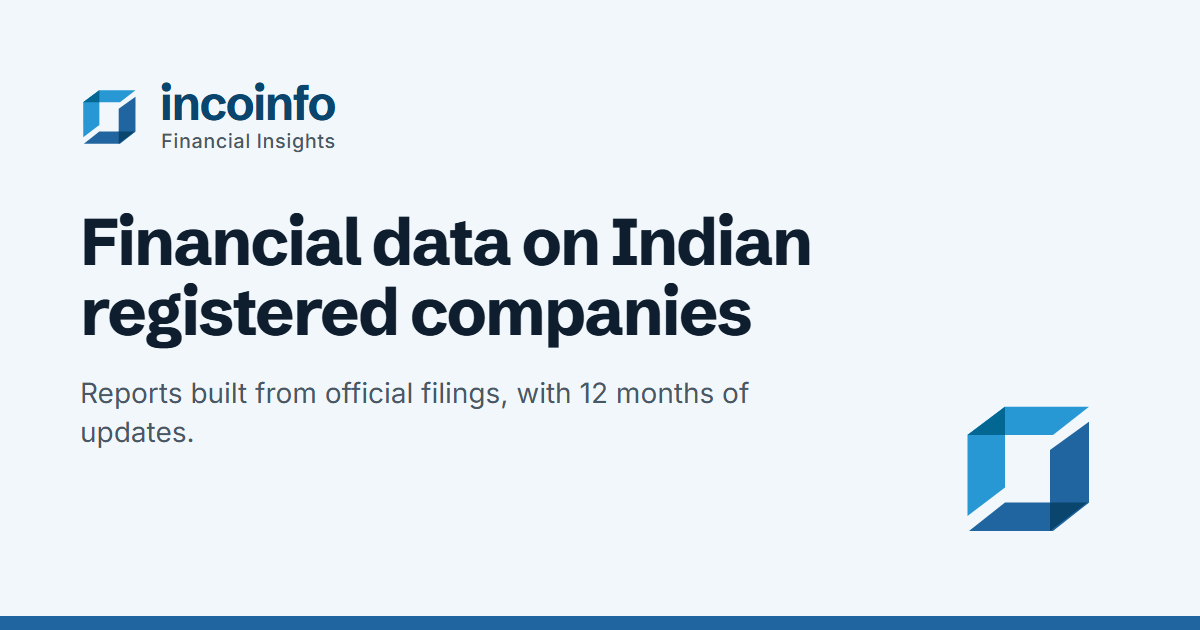
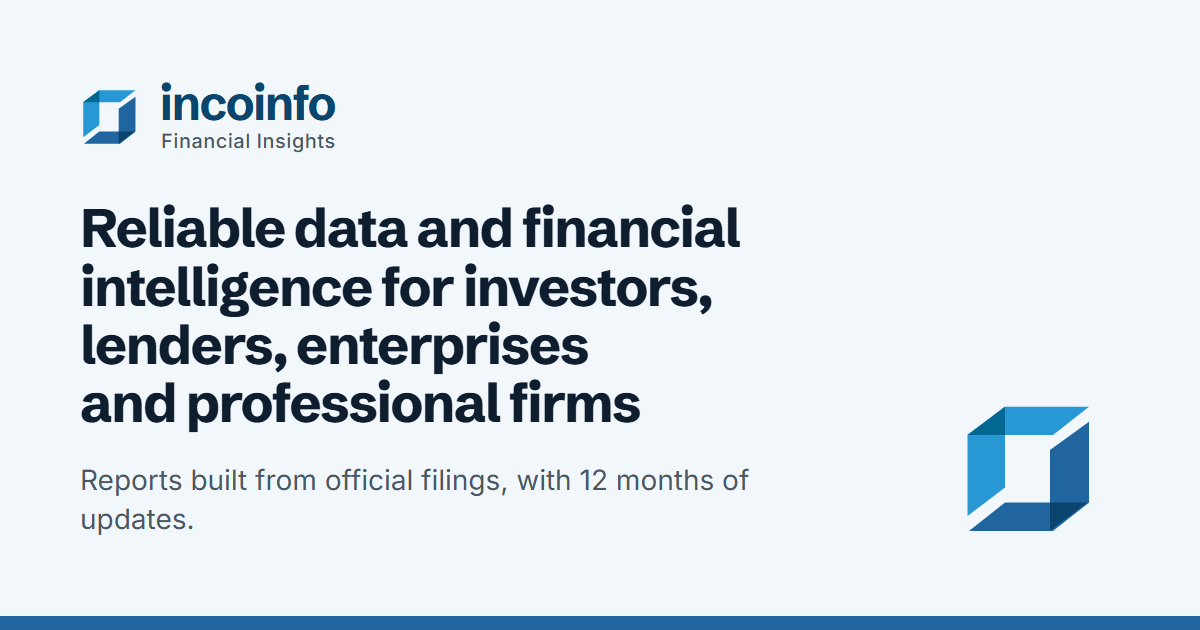
Match homepage title, descriptions and share image to the new headline

Changed region(s): [[0.0617, 0.3317, 0.6783, 0.7238], [0.0617, 0.7238, 0.6167, 0.7841], [0.0617, 0.8143, 0.1542, 0.8444]]

diff --git a/docs/index.html b/docs/index.html
@@ -3,8 +3,8 @@
   <head>
     <meta charset="UTF-8" />
 <meta name="viewport" content="width=device-width, initial-scale=1" />
-<title>IncoInfo — Financial data and company reports on Indian registered companies</title>
-<meta name="description" content="Search Indian companies by name, CIN or director. Buy reports built from MCA/RoC filings: multi-year financials, directors, shareholding, charges and compliance, with 12 months of updates." />
+<title>IncoInfo — Financial intelligence for investors, lenders, enterprises and professional firms</title>
+<meta name="description" content="Reliable data and financial intelligence for investors, lenders, enterprises and professional firms. Reports built from official MCA/RoC filings: financials, directors, shareholding, charges and compliance, with 12 months of updates." />
 <link rel="canonical" href="https://www.incoinfo.com/" />
 <meta name="theme-color" content="#0A456D" />
 <link rel="icon" href="./favicon.svg" type="image/svg+xml" />
@@ -12,14 +12,14 @@
 <link rel="preload" href="./fonts/schibsted-latin.woff2" as="font" type="font/woff2" crossorigin />
 <meta property="og:type" content="website" />
 <meta property="og:site_name" content="IncoInfo" />
-<meta property="og:title" content="IncoInfo — Financial data and company reports on Indian registered companies" />
-<meta property="og:description" content="Search Indian companies by name, CIN or director. Buy reports built from MCA/RoC filings: multi-year financials, directors, shareholding, charges and compliance, with 12 months of updates." />
+<meta property="og:title" content="IncoInfo — Financial intelligence for investors, lenders, enterprises and professional firms" />
+<meta property="og:description" content="Reliable data and financial intelligence for investors, lenders, enterprises and professional firms. Reports built from official MCA/RoC filings: financials, directors, shareholding, charges and compliance, with 12 months of updates." />
 <meta property="og:url" content="https://www.incoinfo.com/" />
 <meta property="og:image" content="https://www.incoinfo.com/og-image.png" />
 <meta property="og:locale" content="en_IN" />
 <meta name="twitter:card" content="summary_large_image" />
-<meta name="twitter:title" content="IncoInfo — Financial data and company reports on Indian registered companies" />
-<meta name="twitter:description" content="Search Indian companies by name, CIN or director. Buy reports built from MCA/RoC filings: multi-year financials, directors, shareholding, charges and compliance, with 12 months of updates." />
+<meta name="twitter:title" content="IncoInfo — Financial intelligence for investors, lenders, enterprises and professional firms" />
+<meta name="twitter:description" content="Reliable data and financial intelligence for investors, lenders, enterprises and professional firms. Reports built from official MCA/RoC filings: financials, directors, shareholding, charges and compliance, with 12 months of updates." />
 <meta name="twitter:image" content="https://www.incoinfo.com/og-image.png" />
 <script>
   (function () {
@@ -40,7 +40,7 @@
         "name": "IncoInfo",
         "url": "https://www.incoinfo.com/",
         "logo": "https://www.incoinfo.com/logo.png",
-        "description": "Company reports and financial data on Indian registered companies, compiled from official filings.",
+        "description": "Reliable data and financial intelligence for investors, lenders, enterprises and professional firms, compiled from official company filings.",
         "email": "support@incoinfo.com",
         "address": { "@type": "PostalAddress", "addressLocality": "Mumbai", "addressRegion": "Maharashtra", "addressCountry": "IN" },
         "contactPoint": { "@type": "ContactPoint", "contactType": "customer support", "email": "support@incoinfo.com", "areaServed": "IN", "availableLanguage": ["en"] }

diff --git a/index.html b/index.html
@@ -1,7 +1,7 @@
 <!doctype html>
 <html lang="en-IN">
   <head>
-    <!-- @include head title="IncoInfo — Financial data and company reports on Indian registered companies" description="Search Indian companies by name, CIN or director. Buy reports built from MCA/RoC filings: multi-year financials, directors, shareholding, charges and compliance, with 12 months of updates." path="/" -->
+    <!-- @include head title="IncoInfo — Financial intelligence for investors, lenders, enterprises and professional firms" description="Reliable data and financial intelligence for investors, lenders, enterprises and professional firms. Reports built from official MCA/RoC filings: financials, directors, shareholding, charges and compliance, with 12 months of updates." path="/" -->
     <script type="application/ld+json">
       {
         "@context": "https://schema.org",
@@ -9,7 +9,7 @@
         "name": "IncoInfo",
         "url": "%SITE_URL%/",
         "logo": "%SITE_URL%/logo.png",
-        "description": "Company reports and financial data on Indian registered companies, compiled from official filings.",
+        "description": "Reliable data and financial intelligence for investors, lenders, enterprises and professional firms, compiled from official company filings.",
         "email": "support@incoinfo.com",
         "address": { "@type": "PostalAddress", "addressLocality": "Mumbai", "addressRegion": "Maharashtra", "addressCountry": "IN" },
         "contactPoint": { "@type": "ContactPoint", "contactType": "customer support", "email": "support@incoinfo.com", "areaServed": "IN", "availableLanguage": ["en"] }
